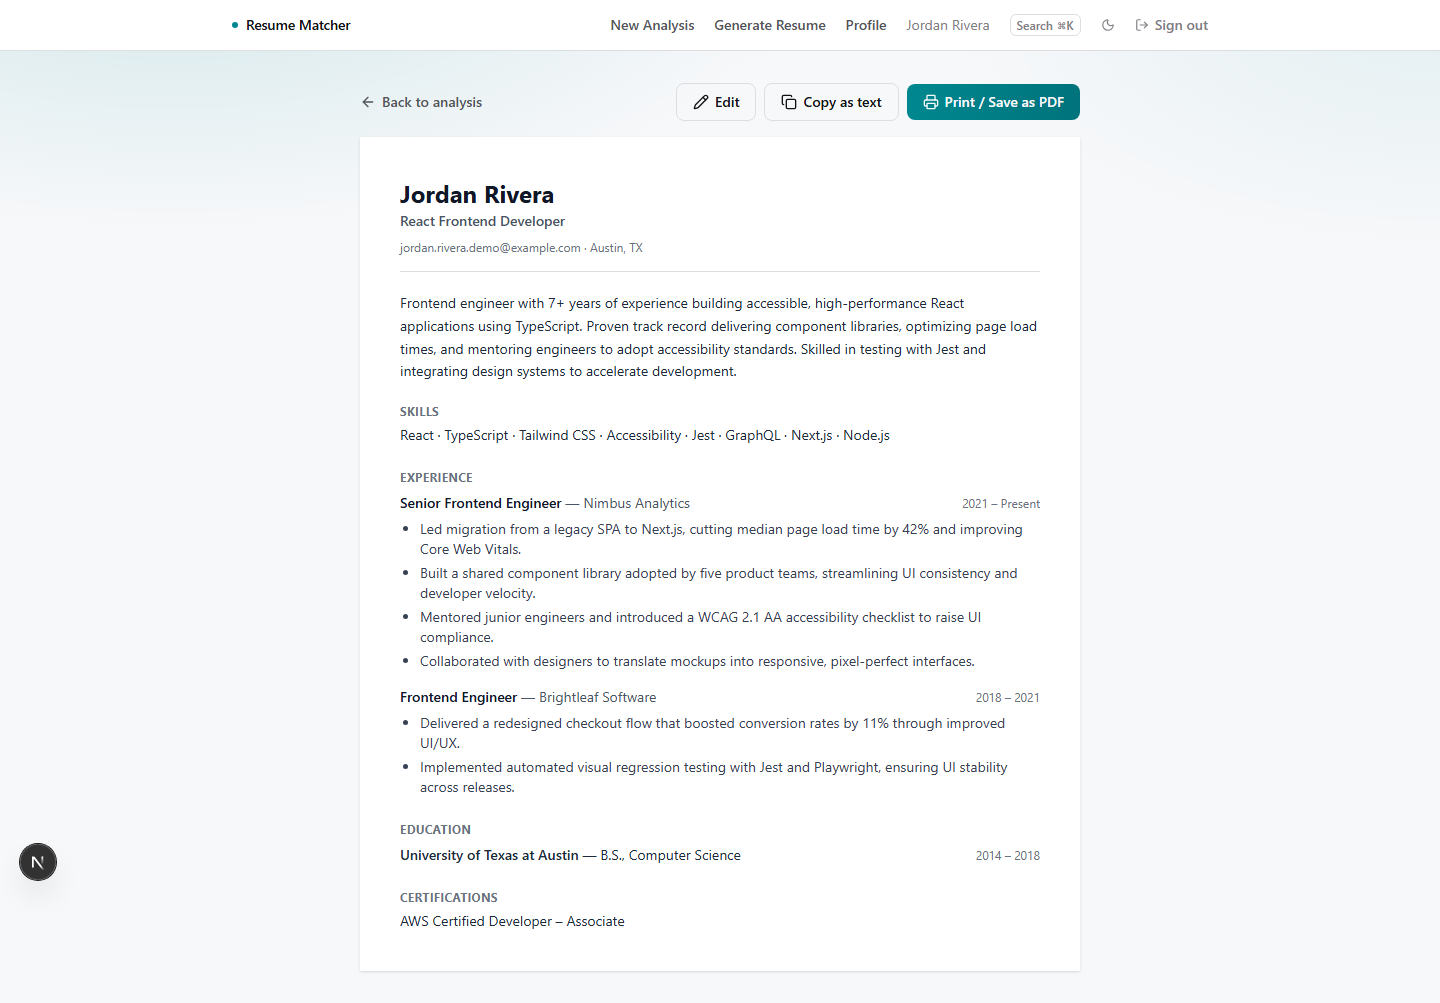
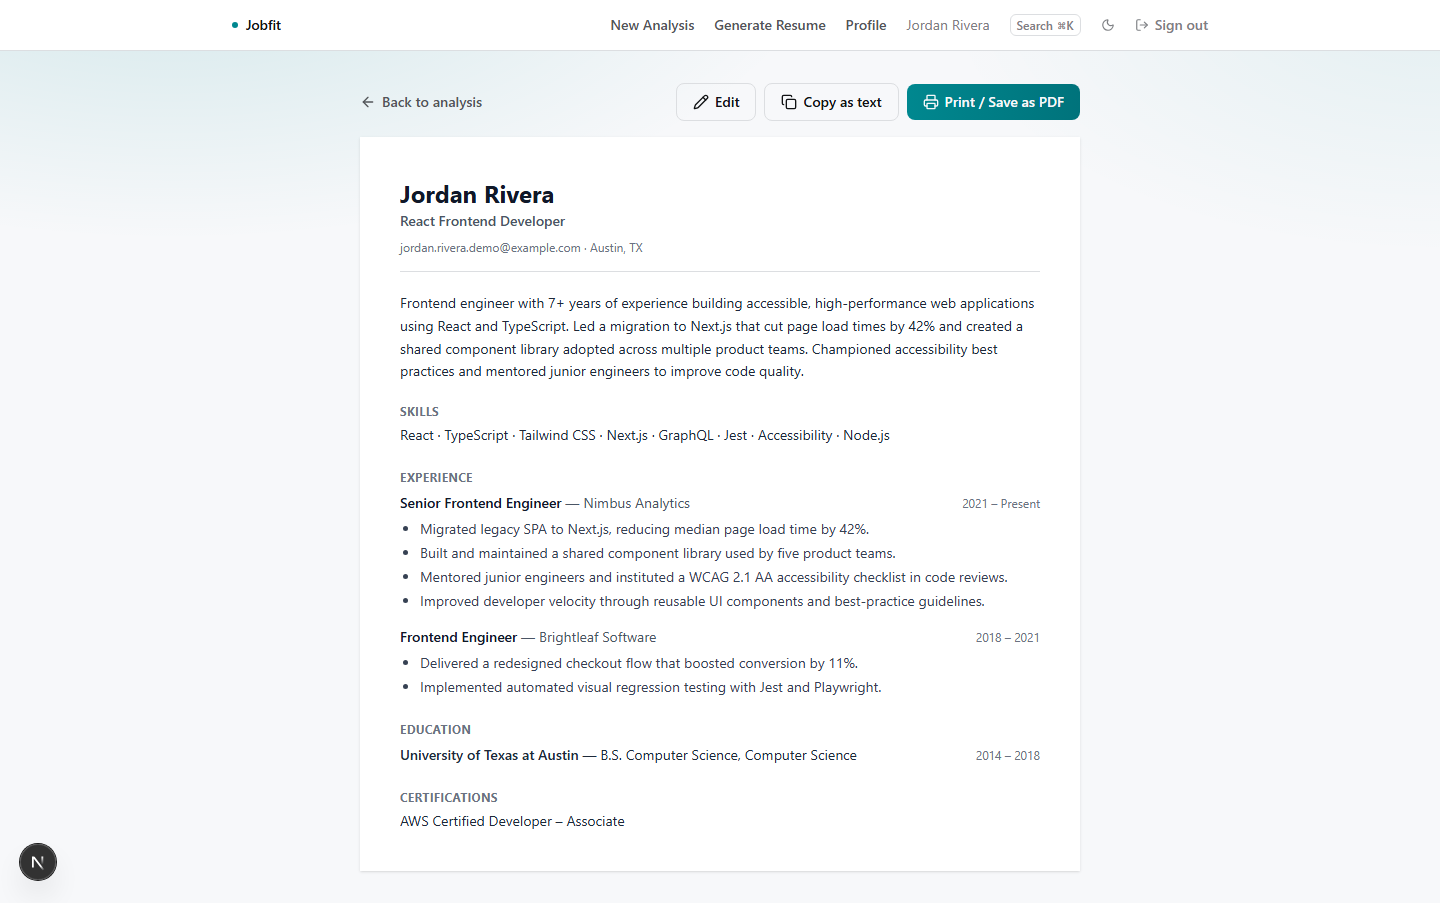
feat: rebrand application to Jobfit with updated layout, metadata, and navigation components

diff --git a/lib/og-image.tsx b/lib/og-image.tsx
@@ -34,7 +34,7 @@ export function SiteOgImage() {
       />
       <div style={{ display: 'flex', alignItems: 'center', gap: 14 }}>
         <div style={{ width: 16, height: 16, borderRadius: '50%', background: ACCENT, display: 'flex' }} />
-        <span style={{ fontSize: 30, fontWeight: 600, color: TEXT }}>Resume Matcher</span>
+        <span style={{ fontSize: 30, fontWeight: 600, color: TEXT }}>Jobfit</span>
       </div>
       <div style={{ display: 'flex', fontSize: 60, fontWeight: 700, color: TEXT, marginTop: 36, maxWidth: 920, lineHeight: 1.15 }}>
         Know your match score before you apply

diff --git a/components/layout/AppNav.tsx b/components/layout/AppNav.tsx
@@ -10,7 +10,7 @@ export function AppNav({ displayName }: { displayName?: string | null }) {
       <div className="mx-auto flex max-w-5xl items-center justify-between px-4 py-3.5 sm:px-6">
         <Link href="/dashboard" className="flex items-center gap-2 text-[0.9rem] font-semibold tracking-tight text-[var(--color-text)]">
           <span className="h-1.5 w-1.5 rounded-full bg-[var(--color-accent)]" aria-hidden />
-          Resume Matcher
+          Jobfit
         </Link>
 
         <div className="flex items-center gap-5 text-sm">

diff --git a/app/layout.tsx b/app/layout.tsx
@@ -1,7 +1,7 @@
 import type { Metadata } from 'next';
 import './globals.css';
 
-const title = 'Resume Matcher';
+const title = 'Jobfit';
 const description =
   'AI-powered resume-to-job matching with skill gap analysis and improvement suggestions, entirely client-parsed and free to run.';
 

diff --git a/docs/scope/scope.md b/docs/scope/scope.md
@@ -1,4 +1,4 @@
-# Scope: Resume Matcher
+# Scope: Jobfit
 
 An AI resume to job description matcher. Upload a resume once, run it against job descriptions, get a match score with a skills breakdown and improvement suggestions, all saved to a dashboard. Built as a portfolio piece, free tier only, one developer.
 
@@ -24,6 +24,7 @@ _These are recommendations to keep your build orderly, not requirements. Skip an
 | 1 | Multiple resumes: add and switch between named resumes | Slice 1 | in-progress |
 | 2 | Multiple resumes: per resume profile editing | Slice 2 | planned |
 | 3 | Multiple resumes: pick a resume when analyzing or generating | Slice 3 | planned |
+| 4 | Rebrand to Jobfit | Rebrand | done |
 
 ## Existing
 
@@ -85,6 +86,13 @@ Extend the structured profile editor (skills, work experience, education, and th
 The paste a job description flow, the standalone generate resume flow, and the command palette all ask which resume to use, instead of assuming there is only one.
 **Done when:** starting an analysis asks which resume to use once an account has more than one; each saved analysis remembers which resume it used; the dashboard and job detail page show that resume's name.
 - [ ] Design it (spec): `/architect multiple resumes: pick a resume when analyzing or generating`
+
+## Rebrand
+
+### 4. Rebrand to Jobfit
+Replace every user facing and project level instance of the current name ("Resume Matcher" / "Resume Parser" / "AI Resume Screener & ATS Matcher") with "Jobfit": nav/page titles, metadata (OpenGraph/Twitter image, app icon alt text), `README.md`, and `package.json`'s `name` field.
+**Done when:** no user facing or project level string still reads the old name, and the app still builds, lints, and runs clean under the new one.
+- [x] Build it: `/develop rebrand to jobfit` — renamed in README.md, package.json (+ package-lock.json via `npm install`), AGENTS.md, docs/scope/scope.md, app/layout.tsx (page title/metadata), components/layout/AppNav.tsx (nav brand), lib/og-image.tsx (OG/Twitter image). Lint, typecheck, tests, and build all verified clean after. README's screenshots recaptured against the live app to show "Jobfit" in the nav.
 
 ## Deferred
 Out of scope for this pass, kept so the plan stays honest.

diff --git a/README.md b/README.md
@@ -1,4 +1,4 @@
-# AI Resume Screener & ATS Matcher
+# Jobfit
 
 Users sign up, upload a resume once, and match it against as many job descriptions as they like -- every analysis is saved to their dashboard with a match score, and clicking into one shows the full breakdown (skills matrix, suggestions, the original JD). Runs entirely on free-tier infrastructure: Next.js on Vercel Hobby + Groq's API (OpenAI-compatible, free tier) + Supabase (Postgres + Auth, free tier). PDF parsing happens client-side (`pdfjs-dist`), so raw files never hit the server -- only extracted text does, and only the extracted text is stored.
 

diff --git a/AGENTS.md b/AGENTS.md
@@ -8,7 +8,7 @@ This block is written and re-added by `next dev` — verify at `node_modules/nex
 
 <!-- END:nextjs-agent-rules -->
 
-# Resume Matcher
+# Jobfit
 
 ## Stack
 
